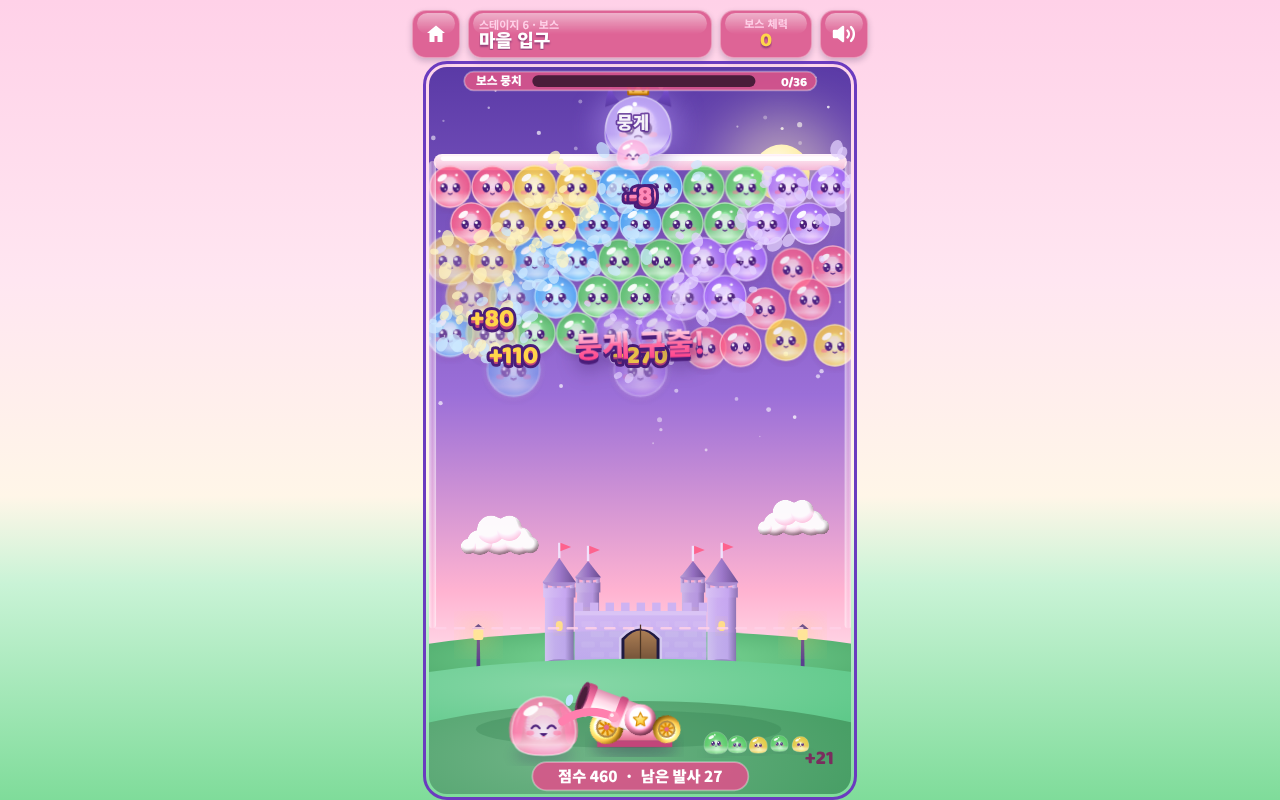
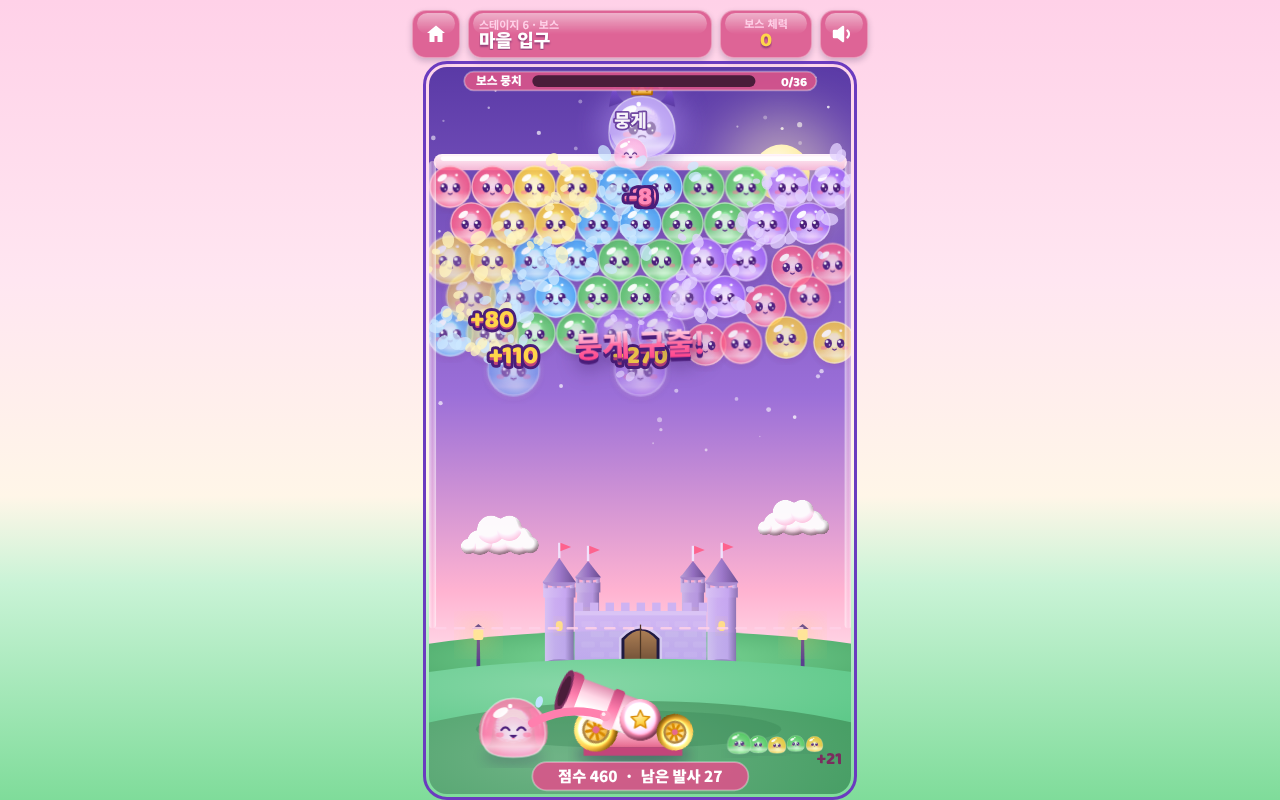
0.5.0 Owner 피드백: 큰 대포, 대포 근처만 터치해 돌려 쏘기, 배경 음악, 젤리 추임새
Claude-Session: https://claude.ai/code/session_017TMEyNge1kfCGPVFj3tuif

diff --git a/index.html b/index.html
@@ -305,7 +305,7 @@ img{-webkit-user-drag:none}
       <button class="icon-btn" id="soundBtn" aria-label="소리 켜기/끄기"></button>
     </div>
     <div id="stageWrap">
-      <canvas id="canvas" tabindex="0" aria-label="게임 판. 끌어서 조준하고 떼면 발사. 키보드는 왼쪽·오른쪽 화살표로 조준, 스페이스로 발사, X로 순서 바꾸기"></canvas>
+      <canvas id="canvas" tabindex="0" aria-label="게임 판. 대포 근처를 좌우로 끌어 대포를 돌리고, 떼면 발사. 키보드는 왼쪽·오른쪽 화살표로 조준, 스페이스로 발사, X로 순서 바꾸기"></canvas>
       <div class="toast" id="toast" role="status" aria-live="polite"></div>
       <div class="tip hide" id="tip"></div>
     </div>
@@ -714,7 +714,7 @@ function land(m) {
     else if (d >= 4) showToast('우르르 쿵!'); else if (n >= 6) showToast('굉장해요!');
     if (res.gifts && G.queue.length) { G.queue[0] = 'w'; showToast('선물 상자! 무지개 거품'); }
     if (res.fireflies) { G.hz.aimBoost = 3; showToast('반딧불! 3발 동안 조준선이 길어요'); }
-    sfx('pop', n); if (d) setTimeout(() => sfx('drop'), 120);
+    sfx('pop', n); if (d) setTimeout(() => sfx('drop', d), 120);
     try { navigator.vibrate && navigator.vibrate(n >= 5 ? 30 : 12); } catch (e) {}
   } else {
     G.hz.misses++;
@@ -946,7 +946,8 @@ function finish(win, reason) {
 // ============================================================
 const canvas = $('canvas'), ctx = canvas.getContext('2d');
 let scale = 1, dpr = 1;
-const CS = 0.8;                                                // 대포 그림 배율
+const CS = 1.05;                                               // 대포 그림 배율 (0.8 → 1.05 크게)
+const CK = CS / 0.8;                                           // 그림 상자 배율
 const CANNON = { bx: PIVOT.x - 6 * CS, by: PIVOT.y + 22 * CS };  // 대포 받침 가운데
 CANNON.wheel = { x: CANNON.bx - 30 * CS, y: CANNON.by - 14 * CS, r: 18 * CS };   // 뒷바퀴 = 말랑이가 돌리는 핸들
 CANNON.front = { x: CANNON.bx + 34 * CS, y: CANNON.by - 12 * CS, r: 15 * CS };
@@ -960,9 +961,9 @@ const SPR = {
   friend: (c, fc) => ({ body: Art.bubble(0, 0, R, COLORS[c].base, { trapped: fc }), box: { x: -R * 1.3, y: -R * 1.3, w: R * 2.6, h: R * 2.6 } }),
   jelly: (color, r, opt) => ({ body: Art.jelly(0, 0, r, color, opt), box: jellyBox(r) }),
   boss: (kind, mood, red) => ({ body: kind === 'nomnom' ? Art.nomnom(0, 0, 30, { mood, red: red ? .7 : 0 }) : Art.boss(0, 0, 28, { mood, kind }), box: { x: -56, y: -54, w: 112, h: 96 } }),
-  cannonBase: () => ({ body: Art.cannonBase(0, 0, CS), box: { x: -42, y: -16, w: 84, h: 30 } }),
-  barrel: () => ({ body: Art.cannonBarrel(0, 0, CS), box: { x: -18, y: -62, w: 36, h: 70 } }),
-  housing: () => ({ body: Art.cannonHousing(0, 0, CS), box: { x: -18, y: -18, w: 36, h: 36 } }),
+  cannonBase: () => ({ body: Art.cannonBase(0, 0, CS), box: { x: -42 * CK, y: -16 * CK, w: 84 * CK, h: 30 * CK } }),
+  barrel: () => ({ body: Art.cannonBarrel(0, 0, CS), box: { x: -18 * CK, y: -62 * CK, w: 36 * CK, h: 70 * CK } }),
+  housing: () => ({ body: Art.cannonHousing(0, 0, CS), box: { x: -18 * CK, y: -18 * CK, w: 36 * CK, h: 36 * CK } }),
   wheel: r => ({ body: Art.cannonWheel(0, 0, r), box: { x: -r * 1.3, y: -r * 1.3, w: r * 2.6, h: r * 2.6 } }),
   bg: theme => ({ body: stageArt(theme), box: { x: 0, y: 0, w: W, h: H, lx: 100, ly: -120 } }),
 };
@@ -1250,8 +1251,8 @@ function render(dt) {
   drawClouds(t, dt);
   // 조준선
   if (G.state === 'aim' && G.queue.length && G.cancelAim) {
-    ctx.fillStyle = 'rgba(255,255,255,.95)'; roundRect(W / 2 - 86, 440, 172, 28, 14); ctx.fill();
-    ctx.fillStyle = '#5a2d91'; ctx.font = '700 14px "Noto Sans KR", sans-serif'; ctx.textAlign = 'center'; ctx.fillText('여기서 떼면 발사 취소', W / 2, 459);
+    ctx.fillStyle = 'rgba(255,255,255,.95)'; roundRect(W / 2 - 86, 350, 172, 28, 14); ctx.fill();
+    ctx.fillStyle = '#5a2d91'; ctx.font = '700 14px "Noto Sans KR", sans-serif'; ctx.textAlign = 'center'; ctx.fillText('여기서 떼면 발사 취소', W / 2, 369);
   } else if (G.state === 'aim' && G.queue.length) {
     const tr = Board.trace(b, G.angle, G.aiming ? 2400 : 260);
     G.aimEnd = { x: tr.x, y: tr.y };
@@ -1464,7 +1465,7 @@ function drawCannonArea(t, dt) {
   }
   // 대포 속 친구 (지금 쏠 색) — 포구 쪽에 보인다
   if (G.queue.length && G.state !== 'done') {
-    const mx = PIVOT.x + Math.cos(G.angle) * 44, my = PIVOT.y + Math.sin(G.angle) * 44;
+    const mx = PIVOT.x + Math.cos(G.angle) * 44 * CK, my = PIVOT.y + Math.sin(G.angle) * 44 * CK;
     if (!(G.state === 'flying' && G.queueShift > .6)) drawBubble(mx, my, G.queue[0], .9 + G.swapT * .2);
   }
   // 회전축 + 별, 앞바퀴
@@ -1483,6 +1484,7 @@ function drawCannonArea(t, dt) {
   ctx.fillStyle = '#ff9fc0'; ctx.beginPath(); ctx.arc(kx, ky, 4.5, 0, 7); ctx.fill();
   ctx.fillStyle = 'rgba(255,255,255,.8)'; ctx.beginPath(); ctx.arc(kx - 1.5, ky - 1.5, 1.6, 0, 7); ctx.fill();
   if (turning > .3) { ctx.fillStyle = '#bfe6ff'; ctx.beginPath(); ctx.ellipse(mx + 22, my - 22, 3, 5, .3, 0, 7); ctx.fill(); }
+  drawTurnHint(t, dt);
   // 줄 선 친구들 (다음에 쏠 친구들)
   G.queueShift = Math.max(0, G.queueShift - dt * 3.2);
   G.swapT = Math.max(0, G.swapT - dt * 4);
@@ -1501,7 +1503,7 @@ function drawCannonArea(t, dt) {
   }
   const extra = G.shotsLeft - G.queue.length;
   G.lineShown = { cannon: G.queue.length ? 1 : 0, line: Math.max(0, show), extra: Math.max(0, extra) };   // 화면에 그린 것 (테스트 확인용)
-  if (extra > 0) { const p = queuePos(Math.max(1, show)); ctx.fillStyle = '#7a2d5e'; ctx.font = '800 17px "Baloo 2", sans-serif'; ctx.textAlign = 'left'; ctx.fillText('+' + extra, p.x + 12, p.y + 6); }
+  if (extra > 0) { const p = queuePos(Math.max(1, show)); ctx.fillStyle = '#7a2d5e'; ctx.font = '800 15px "Baloo 2", sans-serif'; ctx.textAlign = 'left'; ctx.fillText('+' + extra, p.x + 10, p.y + 6); }
   // 점수 · 남은 발사 수
   ctx.fillStyle = 'rgba(217,84,138,.9)'; roundRect(W / 2 - 92, H - 28, 184, 24, 12); ctx.fill();
   ctx.strokeStyle = 'rgba(255,255,255,.35)'; ctx.lineWidth = 1.5; roundRect(W / 2 - 92, H - 28, 184, 24, 12); ctx.stroke();
@@ -1509,7 +1511,26 @@ function drawCannonArea(t, dt) {
   const label = '점수 ' + G.score + '  ·  남은 발사 ' + G.shotsLeft;
   ctx.fillStyle = '#fff'; ctx.fillText(label, W / 2, H - 11);
 }
-function queuePos(i) { return { x: i <= 1 ? 214 + i * 22 : 236 + (i - 1) * 18, y: 584 + (i > 1 ? 4 : 0) }; }
+// 대포 돌리기 안내: 좌우 화살표, 위쪽을 눌렀을 때 터치 구역 알려 주기
+function drawTurnHint(t, dt) {
+  if (G.state !== 'aim' && !G.aiming) return;
+  const a = G.aiming ? .9 : .45 + Math.sin(t * 3) * .15, rr = 58 * CK;
+  ctx.save(); ctx.globalAlpha = a; ctx.strokeStyle = '#fff'; ctx.fillStyle = '#fff'; ctx.lineWidth = 4; ctx.lineCap = 'round';
+  for (const sgn of [-1, 1]) {
+    const a0 = -Math.PI / 2 + sgn * 0.9, a1 = -Math.PI / 2 + sgn * 1.35;
+    ctx.beginPath(); ctx.arc(PIVOT.x, PIVOT.y, rr, Math.min(a0, a1), Math.max(a0, a1)); ctx.stroke();
+    const hx = PIVOT.x + Math.cos(a1) * rr, hy = PIVOT.y + Math.sin(a1) * rr, tg = a1 + sgn * Math.PI / 2;
+    ctx.beginPath(); ctx.moveTo(hx + Math.cos(tg) * 9, hy + Math.sin(tg) * 9); ctx.lineTo(hx + Math.cos(tg + 2.4) * 8, hy + Math.sin(tg + 2.4) * 8); ctx.lineTo(hx + Math.cos(tg - 2.4) * 8, hy + Math.sin(tg - 2.4) * 8); ctx.fill();
+  }
+  ctx.restore();
+  if (G.zoneHint > 0) {
+    G.zoneHint -= dt; const k = Math.min(1, G.zoneHint * 2);
+    ctx.globalAlpha = k * .35; ctx.fillStyle = '#fff'; roundRect(6, DEADLINE - 4, W - 12, H - DEADLINE - 32, 16); ctx.fill();
+    ctx.globalAlpha = k; ctx.fillStyle = 'rgba(255,255,255,.96)'; roundRect(W / 2 - 112, DEADLINE - 44, 224, 30, 15); ctx.fill();
+    ctx.fillStyle = '#5a2d91'; ctx.font = '800 14px "Noto Sans KR", sans-serif'; ctx.textAlign = 'center'; ctx.fillText('대포 근처를 좌우로 끌어 돌려요', W / 2, DEADLINE - 24); ctx.globalAlpha = 1;
+  }
+}
+function queuePos(i) { return { x: i <= 1 ? 234 + i * 22 : 256 + (i - 1) * 16, y: 584 + (i > 1 ? 4 : 0) }; }
 function roundRect(x, y, w, h, r) { ctx.beginPath(); ctx.moveTo(x + r, y); ctx.arcTo(x + w, y, x + w, y + h, r); ctx.arcTo(x + w, y + h, x, y + h, r); ctx.arcTo(x, y + h, x, y, r); ctx.arcTo(x, y, x + w, y, r); ctx.closePath(); }
 
 // ============================================================
@@ -1536,30 +1557,37 @@ function frame(now) {
 // 입력
 // ============================================================
 function toLogical(e) { const r = canvas.getBoundingClientRect(); return { x: (e.clientX - r.left) * W / r.width, y: (e.clientY - r.top) * H / r.height }; }
-// 대포보다 아래로 끌면 조준 취소 (그 자리에서 떼면 발사하지 않음)
+// 조작: 바닥 선 아래(대포 근처)만 터치된다. 좌우로 끌면 대포가 돌고, 손을 떼면 발사.
+// 위로 멀리 끌어 올리면 발사 취소. 위쪽 판을 직접 눌러 조준하는 것은 막는다(너무 쉬워서)
+const TOUCH_TOP = DEADLINE - 6, TURN = 0.009;   // 터치 가능한 맨 위 y, 1px 당 도는 각도
+let grab = null;
 function aimAt(p) {
-  G.cancelAim = p.y > PIVOT.y - 12;
+  if (!grab) return;
+  G.cancelAim = p.y < TOUCH_TOP - 70;
   if (G.cancelAim) return;
-  setAngle(Math.atan2(p.y - PIVOT.y, p.x - PIVOT.x));
+  if (Math.abs(p.x - grab.x) > 3) grab.moved = true;
+  setAngle(grab.a + (p.x - grab.x) * TURN);
 }
-let kbUsed = false;
+let kbUsed = false, zoneHintT = 0;
 canvas.addEventListener('pointerdown', e => {
   e.preventDefault(); unlockAudio(); kbUsed = false;
   canvas.focus({ preventScroll: true });
   if (!G || G.state === 'done') return;
   const p = toLogical(e), q = queuePos(1);
-  if (G.state === 'aim' && (Math.hypot(p.x - q.x, p.y - q.y) < 22 || Math.hypot(p.x - PIVOT.x, p.y - PIVOT.y) < 26)) { swapQueue(); return; }
-  G.aiming = true; aimAt(p);   // 거품이 날아가는 중에도 다음 조준은 미리 할 수 있음
+  if (p.y < TOUCH_TOP) { if (G.time - zoneHintT > 2) { zoneHintT = G.time; G.zoneHint = 1.6; } return; }   // 위쪽은 안 눌림
+  if (G.state === 'aim' && Math.hypot(p.x - q.x, p.y - q.y) < 22) { swapQueue(); return; }
+  grab = { x: p.x, a: G.angle, moved: false };
+  G.aiming = true; G.cancelAim = false;   // 거품이 날아가는 중에도 다음 조준은 미리 할 수 있음
   try { canvas.setPointerCapture(e.pointerId); } catch (err) {}
 });
 canvas.addEventListener('pointermove', e => { if (G && G.aiming) aimAt(toLogical(e)); });
 canvas.addEventListener('pointerup', e => {
   if (!G || !G.aiming) return;
-  G.aiming = false; aimAt(toLogical(e));
+  aimAt(toLogical(e)); G.aiming = false; grab = null;
   if (!G.cancelAim) shoot();
   G.cancelAim = false;
 });
-canvas.addEventListener('pointercancel', () => { if (G) G.aiming = false; });
+canvas.addEventListener('pointercancel', () => { if (G) G.aiming = false; grab = null; });
 canvas.addEventListener('keydown', e => {
   if (!G) return;
   if (e.key === 'ArrowLeft') { kbUsed = true; setAngle(G.angle - .05); e.preventDefault(); }
@@ -1571,13 +1599,25 @@ canvas.addEventListener('keydown', e => {
 // ============================================================
 // 소리
 // ============================================================
-let audio = null;
-function unlockAudio() { if (audio || !soundOn) return; try { audio = new (window.AudioContext || window.webkitAudioContext)(); } catch (e) { audio = null; } }
-function tone(f, to, dur, type, vol, delay = 0) {
+let audio = null, master = null, musicBus = null, sfxBus = null;
+// 소리 설정: 'all' 모두 켬 / 'sfx' 효과음만(음악 끔) / 'off' 모두 끔. 옛 저장값(true/false)도 읽는다
+let soundMode = soundOn === false ? 'off' : soundOn === true ? 'all' : soundOn;
+soundOn = soundMode !== 'off';
+function unlockAudio() {
+  if (audio || !soundOn) return;
+  try {
+    audio = new (window.AudioContext || window.webkitAudioContext)();
+    master = audio.createGain(); master.gain.value = .9; master.connect(audio.destination);
+    sfxBus = audio.createGain(); sfxBus.connect(master);
+    musicBus = audio.createGain(); musicBus.gain.value = .32; musicBus.connect(master);
+    Music.start();
+  } catch (e) { audio = null; }
+}
+function tone(f, to, dur, type, vol, delay = 0, bus = sfxBus) {
   const t0 = audio.currentTime + delay, o = audio.createOscillator(), g = audio.createGain();
   o.type = type; o.frequency.setValueAtTime(f, t0); o.frequency.exponentialRampToValueAtTime(to, t0 + dur);
   g.gain.setValueAtTime(vol, t0); g.gain.exponentialRampToValueAtTime(.001, t0 + dur);
-  o.connect(g).connect(audio.destination); o.start(t0); o.stop(t0 + dur);
+  o.connect(g).connect(bus); o.start(t0); o.stop(t0 + dur);
 }
 function sfx(k, n = 0) {
   if (!soundOn || !audio) return;
@@ -1594,14 +1634,125 @@ function sfx(k, n = 0) {
     else if (k === 'win') [523, 659, 784, 1047].forEach((f, i) => tone(f, f * 1.01, .22, 'triangle', .2, i * .11));
     else if (k === 'lose') [392, 330, 262].forEach((f, i) => tone(f, f * .98, .3, 'triangle', .18, i * .16));
   } catch (e) {}
+  // 젤리 추임새 (사람 말이 아닌 말랑한 젤리 소리)
+  if (k === 'pop') { if (n >= 6) jellyVoice('yay'); else if (Math.random() < .3) jellyVoice(Math.random() < .5 ? 'pu' : 'po'); }
+  else if (k === 'drop' && n >= 4) jellyVoice('wow');
+  else if (k === 'rescue') jellyVoice('yay', .15);
+  else if (k === 'win') jellyVoice('cheer', .5);
+  else if (k === 'lose') jellyVoice('aww', .3);
+  else if (k === 'boss') jellyVoice('hmph', .1);
 }
+
+// ---------- 젤리 목소리: 모음 소리(포먼트)를 흉내 낸 짧은 "뿌요! 야호!" ----------
+const VOWEL = { a: [800, 1250], e: [520, 1900], i: [320, 2400], o: [520, 900], u: [360, 800] };
+// 말: [모음, 시작 높이(Hz), 끝 높이, 길이(초), 쉬는 틈]
+const VOICE = {
+  pu:    [['u', 620, 760, .09, 0], ['o', 780, 700, .12, .01]],
+  po:    [['o', 700, 900, .1, 0], ['i', 900, 1000, .08, .01]],
+  yay:   [['i', 700, 900, .08, 0], ['a', 950, 1150, .2, 0]],
+  wow:   [['u', 600, 700, .08, 0], ['a', 760, 1000, .16, 0], ['u', 1000, 800, .12, 0]],
+  cheer: [['a', 700, 880, .12, 0], ['i', 900, 1100, .1, .04], ['a', 900, 1200, .25, .04]],
+  aww:   [['a', 620, 560, .18, 0], ['u', 540, 400, .3, 0]],
+  hmph:  [['u', 300, 230, .18, 0]],
+};
+let voiceCount = 0, lastVoice = 0;
+function jellyVoice(word, delay = 0) {
+  if (!soundOn || !audio || !VOICE[word]) return;
+  const now = audio.currentTime;
+  if (now - lastVoice < .35 && word !== 'cheer') return;   // 너무 자주 겹치지 않게
+  lastVoice = now; voiceCount++;
+  try {
+    const pitchUp = .9 + Math.random() * .25;   // 게임 난수(rand)는 건드리지 않음
+    let t0 = now + .02 + delay;
+    for (const [v, f0, f1, dur, gap] of VOICE[word]) {
+      t0 += gap;
+      const o = audio.createOscillator(), env = audio.createGain(), out = audio.createGain();
+      o.type = 'sawtooth'; o.frequency.setValueAtTime(f0 * pitchUp, t0); o.frequency.exponentialRampToValueAtTime(f1 * pitchUp, t0 + dur);
+      const vib = audio.createOscillator(), vg = audio.createGain(); vib.frequency.value = 9; vg.gain.value = 14; vib.connect(vg).connect(o.frequency);
+      VOWEL[v].forEach((F, k) => { const bp = audio.createBiquadFilter(); bp.type = 'bandpass'; bp.frequency.value = F; bp.Q.value = 6; const g = audio.createGain(); g.gain.value = k ? .5 : 1; o.connect(bp).connect(g).connect(env); });
+      env.gain.setValueAtTime(.0001, t0); env.gain.exponentialRampToValueAtTime(1, t0 + .015); env.gain.setValueAtTime(1, t0 + dur * .6); env.gain.exponentialRampToValueAtTime(.0001, t0 + dur);
+      out.gain.value = .55; env.connect(out).connect(sfxBus);
+      o.start(t0); o.stop(t0 + dur + .02); vib.start(t0); vib.stop(t0 + dur + .02);
+      t0 += dur;
+    }
+  } catch (e) {}
+}
+
+// ---------- 배경 음악: 통통 튀는 8마디 칩튠 (직접 만든 곡, 외부 파일 없음) ----------
+const Music = (() => {
+  const BPM = 138, STEP = 60 / BPM / 4;            // 16분음표 길이
+  const hz = n => 440 * Math.pow(2, (n - 69) / 12);
+  // 코드 진행 (C G Am F | C G F G) — 마디마다 근음
+  const ROOT = [48, 43, 45, 41, 48, 43, 41, 43];
+  const CHORD = { 48: [60, 64, 67], 43: [59, 62, 67], 45: [60, 64, 69], 41: [60, 65, 69] };
+  // 멜로디: 마디마다 16칸, null = 쉼
+  const _ = null;
+  const MEL = [
+    [72, _, 76, _, 79, _, 76, _, 77, _, 76, _, 74, _, 72, _],
+    [74, _, _, 71, 74, _, 79, _, 77, 76, 74, _, 71, _, _, _],
+    [72, _, 76, _, 81, _, 79, 76, 77, _, 76, _, 74, _, 72, _],
+    [77, _, 76, _, 74, _, 72, _, 69, _, 72, _, 74, _, _, _],
+    [79, _, 79, 81, 79, _, 76, _, 77, _, 79, _, 76, _, 72, _],
+    [74, _, 76, 74, 71, _, 74, _, 79, _, 77, _, 74, _, _, _],
+    [77, _, 81, _, 79, _, 77, _, 76, _, 74, _, 72, _, 74, _],
+    [76, _, 74, _, 71, _, 74, _, 79, _, _, _, 83, _, 84, _],
+  ];
+  let timer = null, step = 0, nextT = 0, scheduled = 0, key = 0;
+  function note(f, t, dur, type, vol) {
+    const o = audio.createOscillator(), g = audio.createGain();
+    o.type = type; o.frequency.setValueAtTime(f, t);
+    g.gain.setValueAtTime(vol, t); g.gain.exponentialRampToValueAtTime(.001, t + dur);
+    o.connect(g).connect(musicBus); o.start(t); o.stop(t + dur + .02); scheduled++;
+  }
+  function hat(t, vol) {
+    const len = Math.floor(audio.sampleRate * .03), buf = audio.createBuffer(1, len, audio.sampleRate), d = buf.getChannelData(0);
+    for (let i = 0; i < len; i++) d[i] = (Math.random() * 2 - 1) * (1 - i / len);
+    const src = audio.createBufferSource(), hp = audio.createBiquadFilter(), g = audio.createGain();
+    src.buffer = buf; hp.type = 'highpass'; hp.frequency.value = 6000; g.gain.value = vol;
+    src.connect(hp).connect(g).connect(musicBus); src.start(t); scheduled++;
+  }
+  function kick(t) { const o = audio.createOscillator(), g = audio.createGain(); o.frequency.setValueAtTime(150, t); o.frequency.exponentialRampToValueAtTime(45, t + .12); g.gain.setValueAtTime(.7, t); g.gain.exponentialRampToValueAtTime(.001, t + .14); o.connect(g).connect(musicBus); o.start(t); o.stop(t + .16); scheduled++; }
+  function tick() {
+    if (!audio || soundMode !== 'all' || document.hidden) { nextT = 0; return; }
+    if (!nextT || nextT < audio.currentTime) nextT = audio.currentTime + .05;
+    while (nextT < audio.currentTime + .25) {
+      const bar = Math.floor(step / 16) % 8, s16 = step % 16, t = nextT, k = key;
+      const root = ROOT[bar] + k;
+      if (s16 % 4 === 0) kick(t);
+      if (s16 % 2 === 0) hat(t, s16 % 4 === 2 ? .25 : .12);
+      // 통통 베이스 (8분음표, 옥타브 왔다 갔다)
+      if (s16 % 2 === 0) note(hz(root + (s16 % 4 === 2 ? 12 : 0)), t, STEP * 1.6, 'triangle', .5);
+      // 코드 반주 (뒷박 짧게)
+      if (s16 % 4 === 2) CHORD[ROOT[bar]].forEach(n => note(hz(n + k), t, STEP * 1.2, 'square', .045));
+      const m = MEL[bar][s16];
+      if (m !== null) { note(hz(m + k), t, STEP * 1.8, 'square', .11); note(hz(m + k + 12), t, STEP * .9, 'triangle', .05); }
+      step++; nextT += STEP;
+    }
+  }
+  return {
+    start() { if (!timer) timer = setInterval(tick, 60); tick(); },
+    // 월드마다 조성을 살짝 바꿔 분위기 전환 (0~4)
+    setWorld(w) { key = [0, 2, -3, 5, -1][w] || 0; },
+    info() { return { running: !!timer && soundMode === 'all', scheduled, step }; },
+  };
+})();
 function updateSoundBtn() {
-  $('soundBtn').innerHTML = soundOn
-    ? '<svg viewBox="0 0 24 24" fill="none" stroke="#fff" stroke-width="2.4" stroke-linecap="round" stroke-linejoin="round"><path d="M11 5L6 9H2v6h4l5 4z" fill="#fff"/><path d="M15.5 8.5a5 5 0 0 1 0 7"/><path d="M19 5a10 10 0 0 1 0 14"/></svg>'
-    : '<svg viewBox="0 0 24 24" fill="none" stroke="#fff" stroke-width="2.4" stroke-linecap="round" stroke-linejoin="round"><path d="M11 5L6 9H2v6h4l5 4z" fill="#fff"/><path d="M22 9l-6 6M16 9l6 6"/></svg>';
+  const spk = '<path d="M11 5L6 9H2v6h4l5 4z" fill="#fff"/>';
+  $('soundBtn').innerHTML = '<svg viewBox="0 0 24 24" fill="none" stroke="#fff" stroke-width="2.4" stroke-linecap="round" stroke-linejoin="round">' +
+    (soundMode === 'all' ? '<path d="M17 4v9.5a2.5 2.5 0 1 1-2-2.45V4l6-1.5v8a2.5 2.5 0 1 1-2-2.45" fill="#fff" stroke="none" transform="translate(-5 4) scale(.75)"/>' + spk + '<path d="M15.5 8.5a5 5 0 0 1 0 7"/>'
+      : soundMode === 'sfx' ? spk + '<path d="M15.5 8.5a5 5 0 0 1 0 7"/><path d="M19 5a10 10 0 0 1 0 14"/>'
+      : spk + '<path d="M22 9l-6 6M16 9l6 6"/>') + '</svg>';
+  const label = { all: '소리: 음악+효과음 (누르면 효과음만)', sfx: '소리: 효과음만 (누르면 끄기)', off: '소리 꺼짐 (누르면 켜기)' }[soundMode];
+  $('soundBtn').setAttribute('aria-label', label); $('soundBtn').title = label;
   $('soundBtn').setAttribute('aria-pressed', String(soundOn));
 }
-$('soundBtn').onclick = () => { soundOn = !soundOn; store.set('sound', soundOn); if (soundOn) unlockAudio(); updateSoundBtn(); };
+$('soundBtn').onclick = () => {
+  soundMode = { all: 'sfx', sfx: 'off', off: 'all' }[soundMode];
+  soundOn = soundMode !== 'off'; store.set('sound', soundMode);
+  if (soundOn) unlockAudio();
+  if (master) master.gain.value = soundOn ? .9 : 0;
+  updateSoundBtn(); showToast({ all: '음악 켜짐', sfx: '효과음만', off: '소리 끔' }[soundMode]);
+};
 
 // ============================================================
 // 화면 전환
@@ -1632,6 +1783,7 @@ function updateHud() {
 function startStage(n) {
   $('result').hidden = true;
   newGame(n);
+  Music.setWorld(G.st.world - 1);
   go('play');
   warmSprites(G.st);
   updateHud();
@@ -2035,7 +2187,7 @@ requestAnimationFrame(frame);
 // 테스트용 손잡이 (화면에는 영향 없음)
 window.__jp = {
   get G() { return G; }, P, STAGES, Board, R, ROW_H, W, H, PIVOT, DEADLINE,
-  startStage, aimLimit, shoot, swapQueue, setAngle, go, seedRandom,
+  startStage, aimLimit, music: () => Music.info(), voices: () => voiceCount, soundMode: () => soundMode, sfx, CS, shoot, swapQueue, setAngle, go, seedRandom,
   reset() { Object.assign(P, { stars: new Array(NST).fill(0), stickers: {}, seenIntro: false, at: 0, seenHz: {} }); saveP(); },
   // 설명 카드 닫기 · 생각하는 시간 흘려보내기(조준 중 시계가 흐름) · 놈놈이 대포를 막았는지
   closeCard() { if (!$('hzCard').hidden) $('hzOk').click(); },

diff --git a/stages.js b/stages.js
@@ -14,7 +14,7 @@ window.JellyStages = (() => {
     // ---------------- 월드 1 · 젤리마을 ----------------
     { id: 1, name: '마을 광장', theme: 'plaza', shots: 20, colors: 'ryb',
       friends: [{ name: '몽실', color: '#ff5f8a' }],
-      tip: '<b>끌어서 조준</b>하고 손을 떼면 발사! 같은 색 3개를 붙여 봐요',
+      tip: '<b>대포 근처를 좌우로 끌어</b> 대포를 돌리고, 손을 떼면 발사! 같은 색 3개를 붙여 봐요',
       rows: ['rrryybbbrr', 'ryybbbrry', 'bbrrRyybbb', 'yybbrryyb'] },
     { id: 2, name: '젤리 분수', theme: 'fountain', shots: 22, colors: 'rybg',
       friends: [{ name: '퐁당', color: '#4fb4ff' }],

diff --git a/STATUS.md b/STATUS.md
@@ -12,4 +12,4 @@
 | jellypop-bubble | REVIEW | v0.2 버블 슈터 월드 1(6스테이지) 완성, 자동 테스트 76/76 + 이전 버전 52/52 통과, 리뷰어 지적 5건 수정, 모험 지도를 한 화면 2D 애니메이션 마을로 개편(3D 시험 장면은 보관), 렌더링 시안 5장(타이틀·지도·게임·클리어·보스) 공개 | 2026-10-20 | 시안·실기기 피드백 반영 → 월드 2 | 렌더링 시안 확인, 휴대폰으로 플레이해 보기(난이도 느낌 포함), 배포 여부 결정 |
 | jellypop-2.5d-mockups | REVIEW | Owner가 컨셉 A(투명 구미 젤리) 선택 → 5개 화면 전부 구미 스타일로 완성(`design/mockups-2.5d/png/gummy-*.png`, `SCENES=./gummy.cjs node shot.mjs all 3`). 컨셉 비교 8장·2.5D 초안 5장은 보관 | 2026-10-21 | 게임(index.html) 그림을 구미 스타일로 교체 (별도 스레드 권장) | 시안 최종 확인, 게임 적용 지시 |
 | jellypop-gummy-apply | REVIEW | 구미 젤리 시안을 게임 전 화면(타이틀·프롤로그·지도·플레이·클리어·보스·스티커 북)에 적용 완료(`gummy.js` + `index.html`), 자동 테스트 76/76 + 52/52 통과, 플레이 링크 공개 | 2026-10-21 | Owner 실기기 확인 → 피드백 반영 | 휴대폰으로 플레이해 보기(그림·속도 느낌), 배포 여부 결정 |
-| stages-30 | REVIEW | 0.4.0 구현 완료: 30스테이지·방해 9종·특수 거품 8종·보스 4종, 테스트 통과, 리뷰 지적 반영, 0.4.1 Owner 피드백(안개·시럽 거품·조준선 점점 짧게) 반영 | 2026-10-22 | Owner 피드백 반영 | 휴대폰으로 월드 2~5 플레이 → 난이도·방해 체감 피드백 (봇 기준 월드 5 72%로 목표 40%보다 쉬움) / 배포 여부(L3) |
+| stages-30 | REVIEW | 0.4.0 구현 완료: 30스테이지·방해 9종·특수 거품 8종·보스 4종, 테스트 통과, 리뷰 지적 반영, 0.4.1 Owner 피드백(안개·시럽 거품·조준선 점점 짧게), 0.5.0(큰 대포·대포 돌리기 조작·배경 음악·젤리 추임새) 반영 | 2026-10-22 | Owner 피드백 반영 | 휴대폰으로 월드 2~5 플레이 → 난이도·방해 체감 피드백 (봇 기준 월드 5 72%로 목표 40%보다 쉬움) / 배포 여부(L3) |

diff --git a/CHANGELOG.md b/CHANGELOG.md
@@ -1,5 +1,13 @@
 # CHANGELOG
 
+## 0.5.0 — 2026-10-23 · Owner 피드백 2: 큰 대포·대포 돌리기 조작·배경 음악·젤리 추임새
+- 대포 그림 약 1.3배(배율 0.8 → 1.05). 줄 선 친구 자리를 오른쪽으로 옮김
+- 조작 변경: **대포 근처(바닥 선 아래)만 터치**. 좌우로 끌면 대포가 돌고 손을 떼면 발사, 위로 멀리 끌어 올려 떼면 취소. 위쪽 판을 눌러 조준하던 방식은 막음(누르면 "대포 근처를 좌우로 끌어 돌려요" 안내). 대포 양옆에 돌리기 화살표
+- 배경 음악: 직접 만든 8마디 칩튠(외부 파일 없음, Web Audio로 실시간 연주), 월드마다 조성이 바뀜. 앱을 내리면 멈춤
+- 소리 버튼 3단계: 음악+효과음 → 효과음만 → 끔 (저장됨)
+- 젤리 추임새: 모음 소리를 흉내 낸 말랑한 "뿌요!·야호!·우와!" (사람 목소리 아님). 크게 터질 때·우르르·구출·클리어·실패·보스 공격 때, 작은 터짐은 가끔
+- 테스트: 위쪽 터치 막기·대포 돌리기·취소(bubble 79), 음악·추임새·소리 버튼·대포 크기(stages30 73)
+
 ## 0.4.1 — 2026-10-22 · Owner 피드백: 안개·시럽 거품·조준선
 - 구름 → **솜사탕 안개**: 맨 위는 하얗게 가리고 아래로 갈수록 옅어짐, 아래 가장자리는 천천히 흐르는 안개 자락. 안개 속 거품이 터진 자리는 걷힘. 스며들고 걷히는 방식(옆으로 밀려오지 않음)
 - **끈적 시럽 거품**을 알아보기 쉽게: 금빛 시럽 테두리·흘러내리는 방울·"2" 표시, 속 색은 그대로 보임. 시럽이 벗겨질 때 "시럽 벗김!" 글자. 설명 카드·7번 팁 문구 쉽게

diff --git a/README.md b/README.md
@@ -4,7 +4,7 @@
 
 ## 플레이
 - `index.html`을 브라우저로 열면 바로 시작 (v0.4, 5월드 · 30스테이지 · 방해 요소)
-- 조작: 화면을 끌어 조준 → 손을 떼면 발사. 맨 앞에 줄 선 친구를 누르면 순서 바꾸기
+- 조작: 대포 근처를 좌우로 끌어 대포를 돌리고 → 손을 떼면 발사(위로 끌어 올리면 취소). 맨 앞에 줄 선 친구를 누르면 순서 바꾸기. 오른쪽 위 소리 버튼: 음악+효과음 / 효과음만 / 끔
 - PC 키보드: ← → 조준, Space 발사, X 순서 바꾸기
 - 이전 버전(톡 터뜨리기): `classic.html`
 
